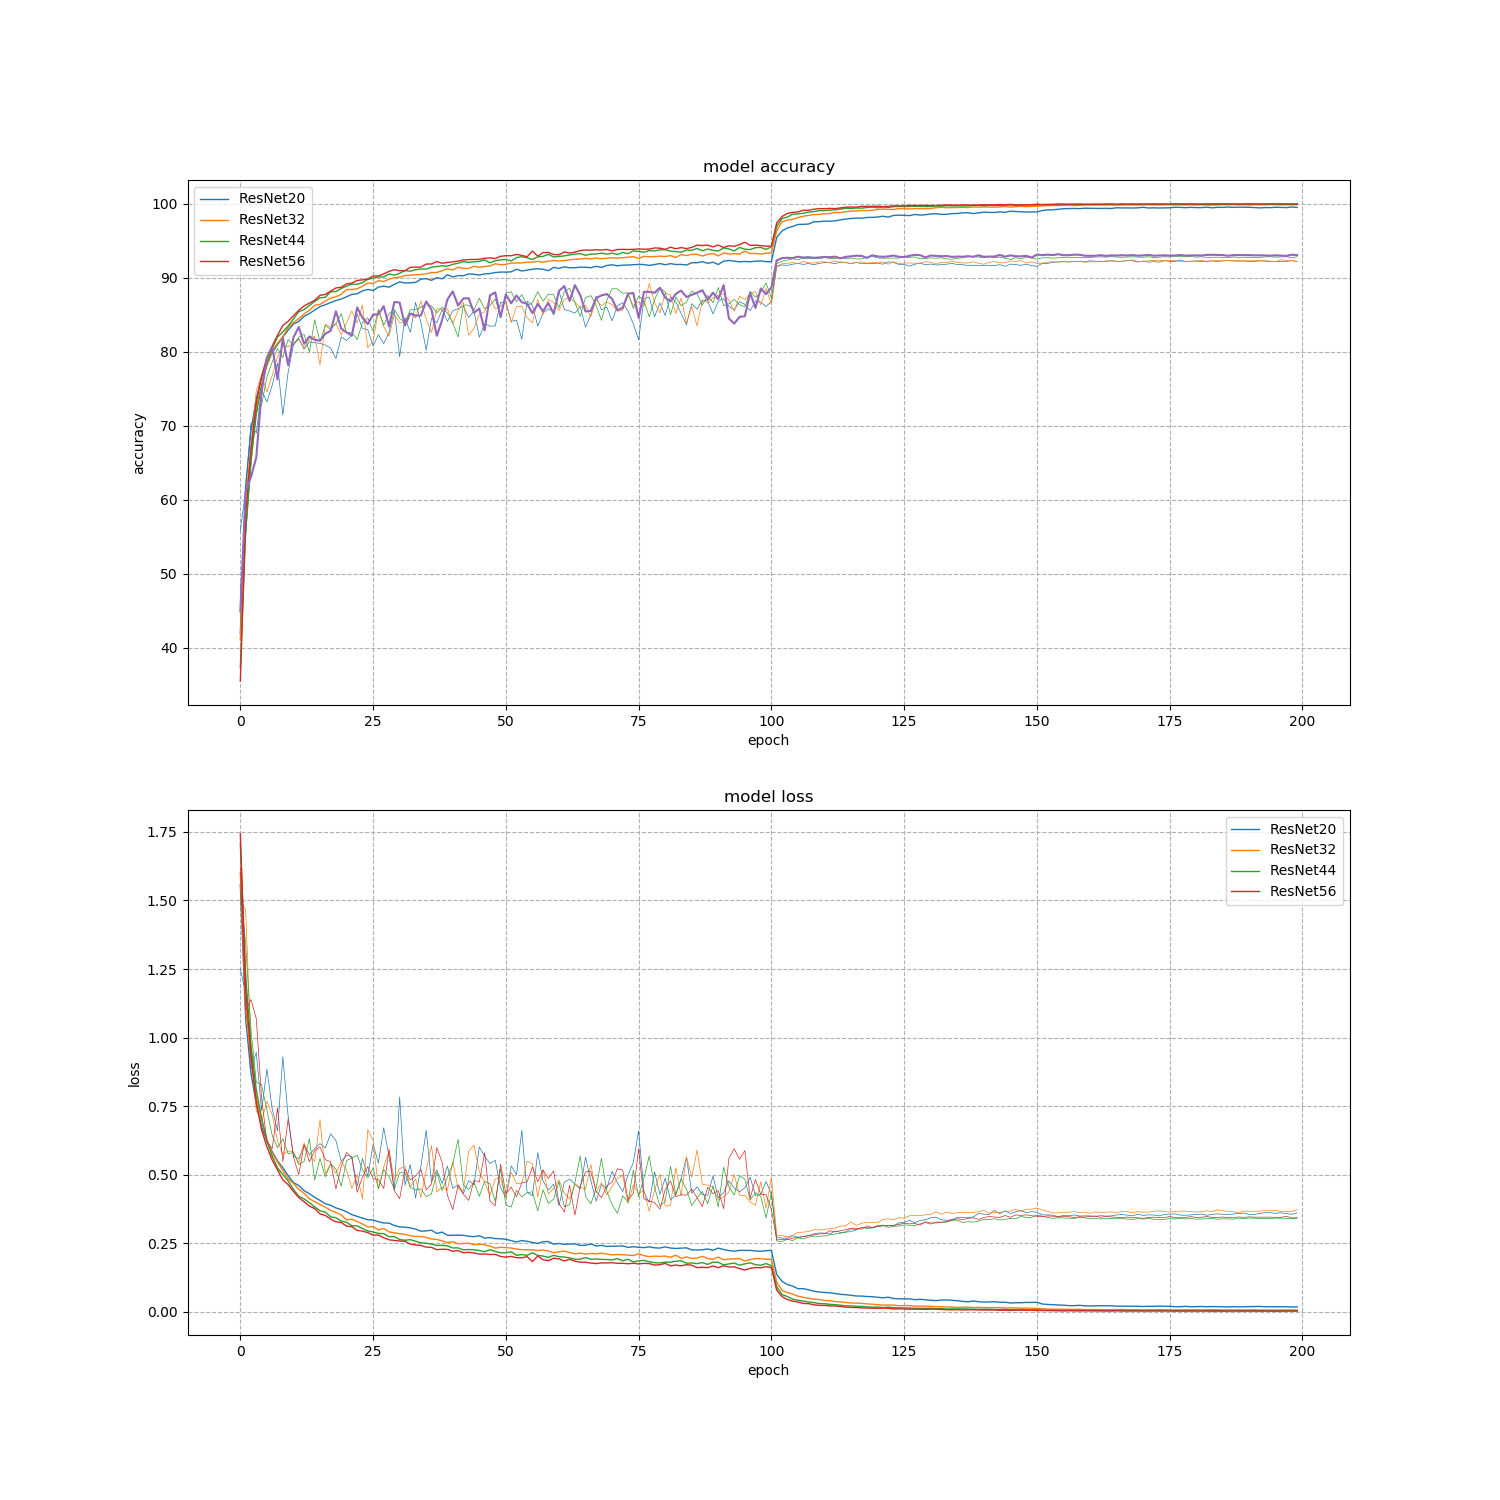
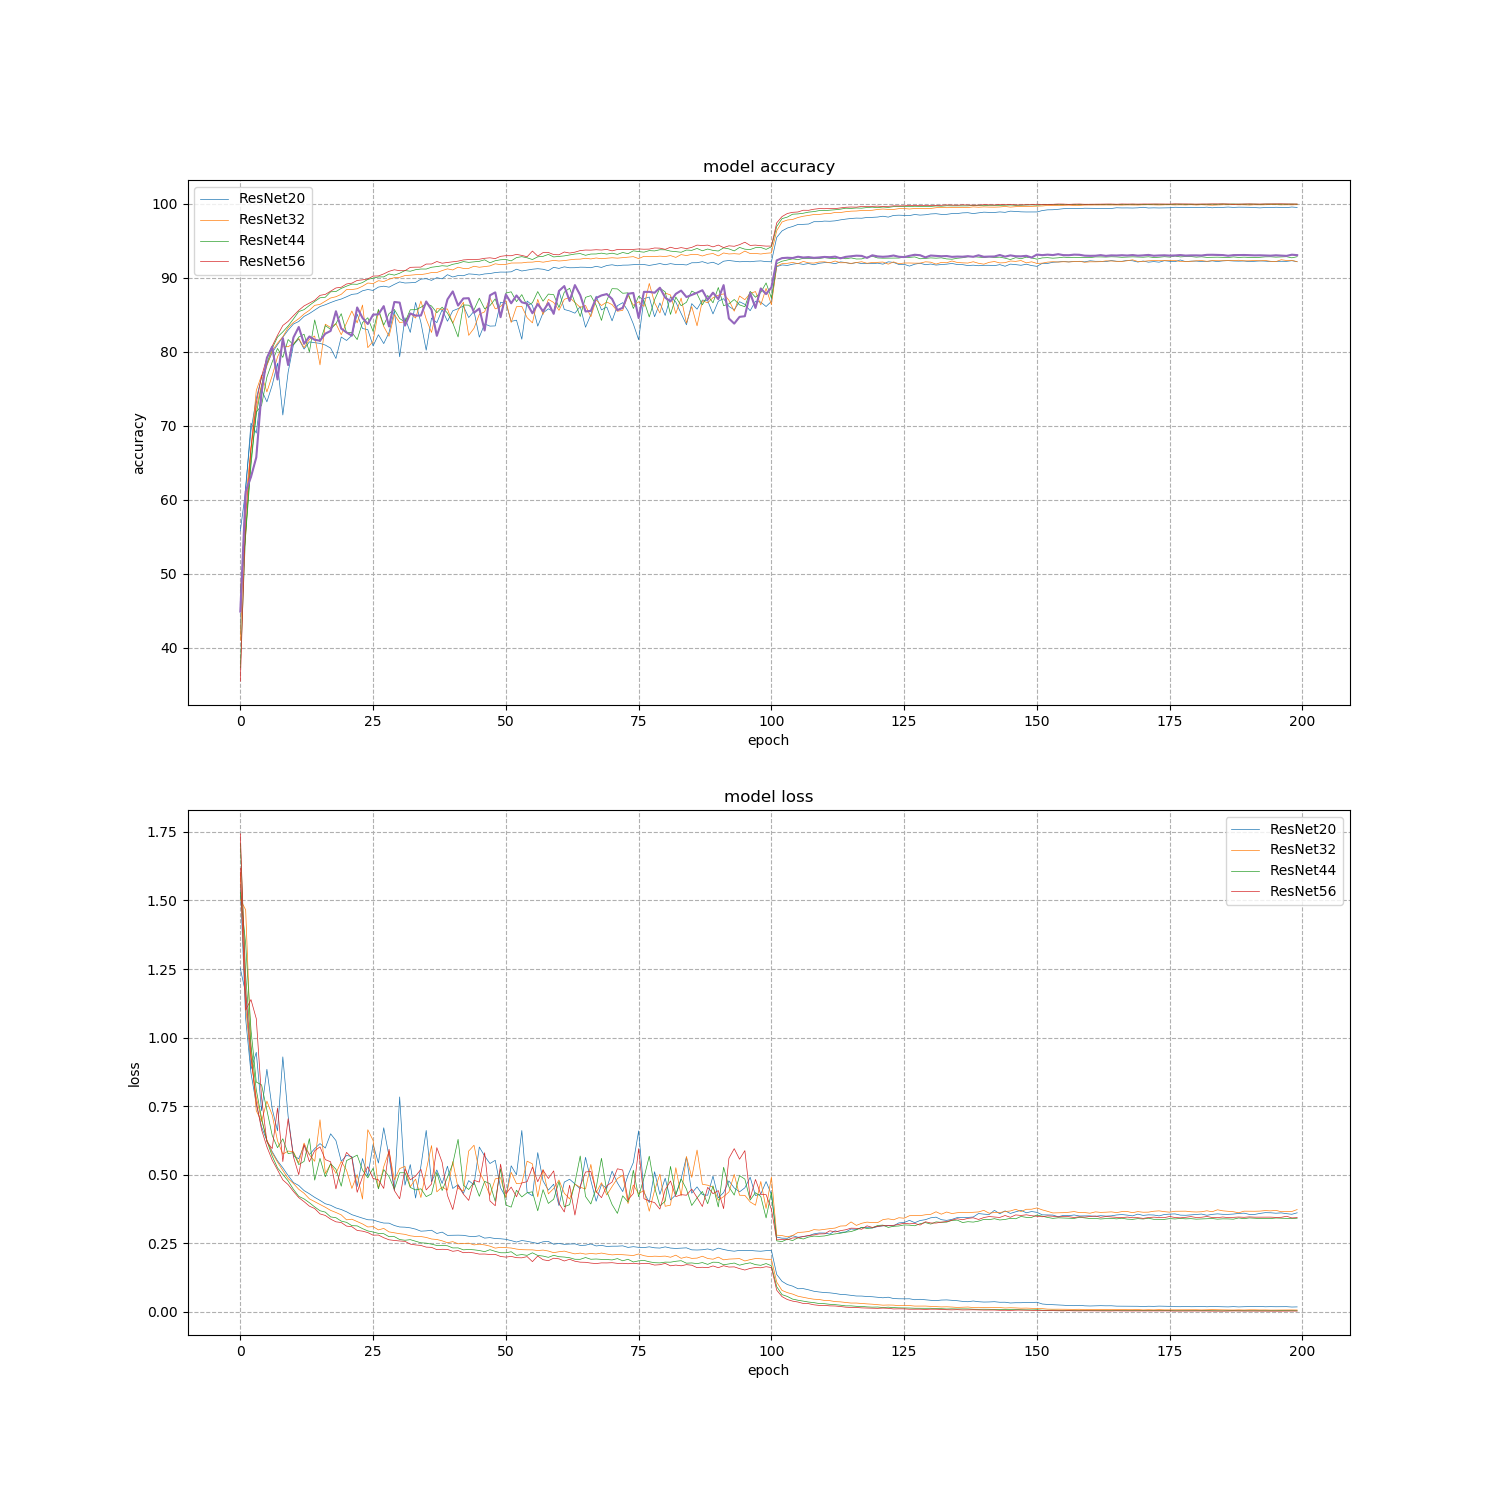
fix plot

diff --git a/plot.py b/plot.py
@@ -7,9 +7,9 @@ fig, ax = plt.subplots(2, 1, figsize=(15, 15))
 for net in ('ResNet20', 'ResNet32', 'ResNet44', 'ResNet56'):
     checkpoint = torch.load('pretrained/' + net + '.pth')
     history = checkpoint['history']
-    c = ax[0].plot(history['acc'], linewidth=1, label=net)
+    c = ax[0].plot(history['acc'], linewidth=0.5, label=net)
     ax[0].plot(history['val_acc'], linewidth=0.5, color=c[0].get_color())
-    c = ax[1].plot(history['loss'], linewidth=1, label=net)
+    c = ax[1].plot(history['loss'], linewidth=0.5, label=net)
     ax[1].plot(history['val_loss'], linewidth=0.5, color=c[0].get_color())
 
 ax[0].plot(history['val_acc'])
